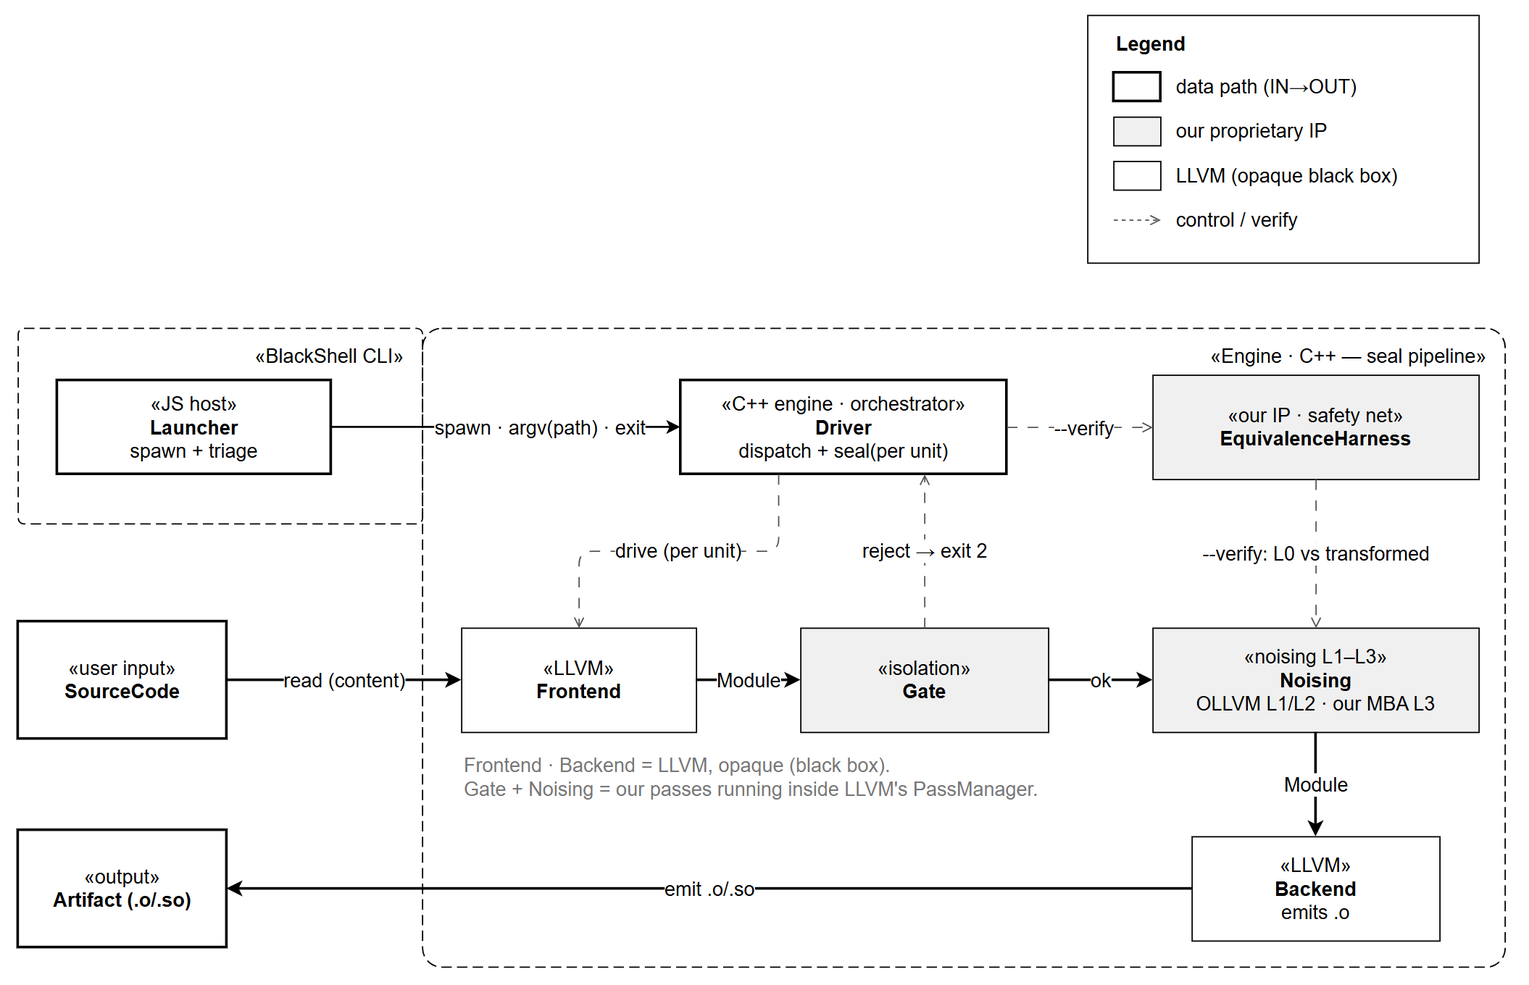
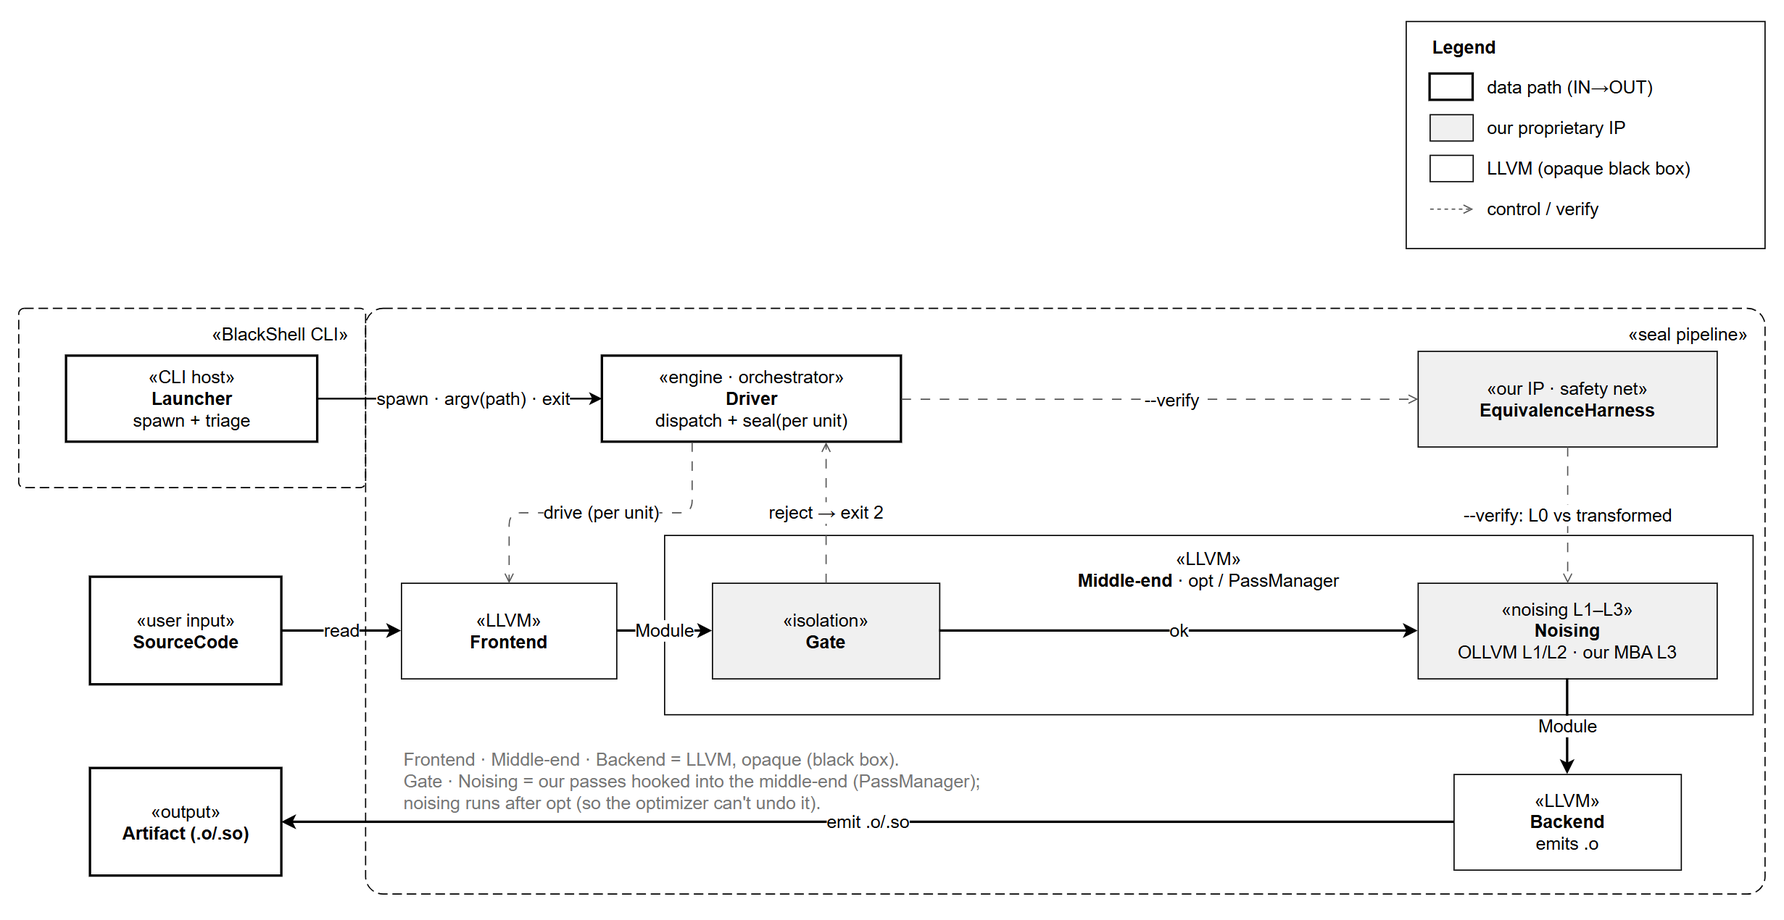
docs: refine production model to hybrid (RISC primitives + engine Driver)
§5/§6: replace the pure-RISC 'sequencing fully in the Launcher' framing with
the hybrid — the engine keeps orthogonal RISC primitives AND the Driver that
sequences the seal pipeline; the Launcher owns CLI parsing, command composition
and message rendering. Handle ABI applies at the CLI seam only (IR never
crosses). Design philosophy only — no finalized function names/signatures.

Diagram (figure 3): add the LLVM middle-end (opt/PassManager) black box with
Gate/Noising hooked into it (noising after opt); EquivalenceHarness stays
outside as compile+run verification, not a pass.

interfaces/01,02,04,README: forward-pointer caveats that command set / CLI
parsing / composition / message rendering move to the Launcher in production,
while pipeline sequencing stays in the engine Driver.

diff --git a/docs/Architecture.md b/docs/Architecture.md
@@ -1,6 +1,6 @@
 # BlackShell 아키텍처
 
-작성일: 2026-11-04
+작성일: 2026-11-04 · 개정: 2026-11-07 (§5·§6 프로덕션 모델 — 하이브리드: RISC primitive + 엔진 Driver)
 
 > 현재 **PoC 스켈레톤**의 실제 구현 구조를 기록한다. 장기 LLVM 파이프라인 설계는
 > [BlackShell_Plan.md §6](BlackShell_Plan.md)을, 이음매 계약은
@@ -119,6 +119,8 @@ flowchart TD
   응답하고 나머지는 엔진에 그대로 전달한다. 명령셋 파싱을 안 하므로 엔진이
   명령셋의 단일 소스이고, 이음매 프로토콜이 고정이라 PoC→프로덕션 교체 시 JS는
   무변경이다. (`interfaces/01-cli-seam.md`)
+  (⚠ 이건 현재 PoC 기준이다. 2026-11-07 재배치로 **프로덕션에선 명령셋·조합이 Launcher로
+  이동**해 JS가 오히려 두꺼워진다 → §5.)
 - **패스 계약** — `noising: IR→IR`, `gate: IR→Verdict` 두 시그니처. 현재는 전부
   더미다(identity noising = "맞지만 보호 안 됨", accept-all gate = **출하 전 반드시
   교체**). 더미↔실제 교체 시 드라이버는 안 건드리고 레지스트리 엔트리만 swap한다.
@@ -126,6 +128,8 @@ flowchart TD
 - **단일 I/O 지점** — 파이프라인 코드(`ir`/`interp`/`passes`)는 절대 print하지 않고
   `EngineError`를 raise만 한다. 렌더링은 `driver._emit` 한 곳, 메시지/스트림/exit
   코드는 `messages.py` 카탈로그에서 조회한다. (`interfaces/02-driver.md`)
+  (프로덕션에선 렌더가 Launcher로 가고, 엔진 primitive는 구조화된 verdict·에러코드만
+  반환한다 → §5.)
 - **구조적 격리 (§5 조건1)** — IR에 포인터·전역·I/O가 표현 불가능하므로 격리가
   문법 수준에서 강제된다. (`interfaces/03-ir-model.md`)
 - **등가 검증** — baseline(L0)과 변환 결과를 같은 입력으로 돌려 관측 출력(`returns`)만
@@ -150,28 +154,49 @@ exit 코드: `0` 정상 · `1` 오류 · `2` 게이트 거부(BlackShell_Plan §
 
 ---
 
-## 5. 프로덕션 언어 경계 (2026-11-04 확정)
+## 5. 프로덕션 언어 경계 (2026-11-07 — RISC 엔진 + 엔진 Driver, 하이브리드)
 
-PoC(Python)에서 LLVM 프로덕션으로 올릴 때 **언어 경계는 현재와 동일하게 유지한다** —
-얇은 JS 론처 + npm 패키징 / 엔진 전체는 한 언어(C++)로 LLVM과 같은 프로세스 안.
-서브프로세스 뒤의 바이너리를 Python → C++로 교체하는 것 외에 JS는 거의 바뀌지 않는다.
+> 아래는 **설계 철학**이다(구현 전이라 구체 primitive·함수·시그니처 이름은 확정하지 않는다).
+> 2026-11-04 "두꺼운 엔진"안의 근거는 이 절 끝 "설계 이력"에 보존한다.
 
-**검토 후 기각한 안**: "LLVM 호출부·IR 가공만 C++, 드라이버·스테이징 등 나머지는 JS."
+**핵심: RISC(직교 primitive)와 Driver의 존재는 충돌하지 않는다.** RISC가 요구하는 건 *명령(primitive)이
+직교적일 것*이지 *시퀀서가 어디 사는지*가 아니다. MIPS도 직교 명령셋 위에 그 명령을 순서대로 흘리는
+시퀀서가 있고 — Driver가 바로 그 자리다. 그래서 엔진은 **직교 primitive + 그걸 엮는 Driver**를 함께
+갖고, 그 위에서 Launcher는 **CLI·명령 조합**을 맡는다.
 
-- **경계 기준은 'IR 가공'이 아니라 'IR/LLVM을 만지느냐'다.** 게이트(§5 조건1 정적분석),
-  노이징 L1~L3, 등가 검증(baseline/변환을 실제 컴파일·실행해 비교) 모두 LLVM을
-  인프로세스로 써야 하므로 전부 C++이다. "IR 가공만"으로 좁히면 게이트가 애매하게 빠진다.
-- **드라이버를 JS로 당기면 이음매가 고와진다.** LLVM `Module`은 C++ 메모리에 산다.
-  JS가 패스 사이 중간 상태를 들고 있으려면 매 패스마다 bitcode 직렬화 왕복이 생겨,
-  파이프라인 한복판에 비싸고 깨지기 쉬운 경계가 박힌다. 이음매는 **유닛 단위로 거칠게**
-  유지한다 — 유닛을 통째로 넘기고(in) 봉인 아티팩트를 받는다(out), 횡단은 들어갈 때
-  1번·나올 때 1번.
-- **드라이버/스테이징은 어려운 부분이 아니다.** C++로 쓰는 비용 < JS↔C++ 오케스트레이션
-  비용이고, "엔진이 명령셋 단일 소스"(JS drift 방지) 불변식도 보존된다.
+**세 역할:**
+- **엔진 primitive (RISC).** 불러오기·게이트·노이징·검증·방출 류의 각 primitive는 한 가지 직교 동작만
+  하고 서로의 순서를 가정하지 않는다. IR/LLVM·파일 I/O는 전부 엔진 안.
+- **엔진 Driver (시퀀서).** 유닛별 봉인 파이프라인(고정 순서: 불러오기→게이트→노이징→검증→방출)을
+  엔진 안에서 구동한다 — primitive를 순서대로 호출하는 '프로그램'. IR은 이 파이프라인 내내 엔진
+  메모리에 머문다.
+- **Launcher (JS/TS).** CLI 파싱 + 어떤 명령·옵션·유닛·레벨인지 결정(명령 레벨 조합) + 사용자 메시지
+  렌더(UX). 엔진엔 "무엇을 봉인할지"(경로·레벨·플래그 = plan)를 넘기고 결과(판정·아티팩트·에러)를 받는다.
 
-**JS를 더 쓰고 싶을 때의 유일한 변형**: 명령 *의미*는 엔진에 두되, 출력 포매팅·help·UX만
-JS가 `messages` 카탈로그를 소비해 담당한다(`interfaces/01-cli-seam.md`의 "future JS-side
-CLI" 메모). 경계를 거칠게 유지하면서 JS 편의를 취하는 길.
+**경계 규율 (핸들 ABI는 CLI 경계에만).** Launcher↔엔진 경계로는 IR 값이 넘어가지 않는다 — plan(경로·
+레벨·플래그) in, 구조화된 결과(판정·아티팩트 경로·에러) out. 봉인 파이프라인이 통째로 엔진 안에서
+돌기 때문에 IR은 애초에 경계를 안 넘는다. (유닛을 CLI 호출 간에 참조해야 하면 IR이 아니라 불투명
+핸들로 — OS 파일 디스크립터 비유.) 전제는 in-process FFI(엔진 = Node에 로드되는 공유 라이브러리,
+선례 better-sqlite3·libLLVM 바인딩); 바인딩 방식은 구현 시 확정.
+
+**옛 모델 대비 달라지는 것.** 2026-11-04안은 Launcher를 "거의 forward만" 하는 얇은 껍데기로 봤다.
+하이브리드는 **명령셋·CLI 파싱·명령 조합·메시지 렌더를 Launcher로 올린다.** 반면 봉인 파이프라인
+시퀀싱과 IR/LLVM·파일 I/O는 엔진(Driver+primitive)에 그대로 둔다. 요지는 "실행·시퀀싱은 엔진,
+CLI·조합·UX는 Launcher" — **Driver 삭제가 아니라 역할 재분배.**
+
+**확장 계약 — CLI 옵션 추가.** 두 경로 — **(a)** 기존 엔진 능력의 재조합(다른 유닛·레벨·플래그·명령
+구성)이면 → Launcher만 수정. **(b)** 파이프라인에 없던 새 동작이 필요하면 → 엔진에 primitive 추가
+(드물어야 정상). 성립 전제 = primitive가 **직교적**일 것(숨은 순서 의존 금지, 하나가 두 동작 묶지
+말 것). 그래야 엔진 Driver가 자유롭게 재배선하고 Launcher가 명령 레벨에서 조합할 수 있다. ⚠ 깨지는
+지점은 primitive가 순서·명령을 암묵 가정할 때다 — 그 순간 (a)가 (b)로 새어 옵션 하나에 엔진까지
+건드리게 된다.
+
+### 설계 이력 (2026-11-04 → 11-07)
+
+> **2026-11-04 (두꺼운 엔진):** 얇은 JS 론처 + 엔진 전체 C++ 인프로세스, 드라이버·스테이징·명령셋
+> 전부 엔진 소유. **2026-11-07 (하이브리드):** 엔진은 RISC primitive + Driver 시퀀서를 유지하되,
+> 명령셋·CLI 파싱·명령 조합·메시지 렌더를 Launcher로 올림. Driver 삭제가 아니라 역할 재분배다.
+> 상세 diff는 git 이력 949b11e를 참조.
 
 ---
 
@@ -179,52 +204,68 @@ CLI" 메모). 경계를 거칠게 유지하면서 JS 편의를 취하는 길.
 
 위 §1~4가 현재 **PoC 스켈레톤**이라면, 이 절은 LLVM 프로덕션 **목표 구조**다
 ([BlackShell_Plan.md §6](BlackShell_Plan.md), 모델 P · C-ABI 이음매). LLVM
-프론트엔드·미들엔드·백엔드는 **블랙박스 파사드**로 두고, 우리 IP와 PoC에서 넘어오는
-계약(패스 계약 · 드라이버 단일 I/O · 메시지 카탈로그)만 명시한다.
+프론트엔드·미들엔드·백엔드는 **블랙박스 파사드**로 두고, 우리 IP와 계약(패스 계약 · 경계 규율 ·
+엔진(Driver+primitive) ↔ Launcher 역할 분담)만 명시한다.
 
 ![BlackShell 프로덕션 아키텍처](image/Architecture.png)
 
-**그림 3. 프로덕션 아키텍처 (정본).** 두 경계 — `«BlackShell CLI»`(JS 론처) 와
+**그림 3. 프로덕션 아키텍처 (정본).** 두 경계 — `«BlackShell CLI»`(JS Launcher) 와
 `«Engine · C++ — seal pipeline»`(C++ 엔진). 데이터패스 `SourceCode(IN) → Frontend → Gate →
-Noising → Backend → Artifact(.o/.so, OUT)`. 해칭 = LLVM 블랙박스(Frontend·Backend), 회색 =
-우리 IP(Gate·Noising·EquivalenceHarness), 점선 = 제어/검증. Backend가 `.o`를 직접 emit하고,
-`Artifact`가 우리 결과물의 종점이다(UserCompiler·최종 바이너리는 범위 밖). 편집 가능한
-원본: `BlackShell.drawio`.
+Noising → Backend → Artifact(.o/.so, OUT)`, 엔진 내부 `Driver`가 유닛별로 이 파이프라인을 구동.
+`Gate·Noising`은 **LLVM 미들엔드(opt·PassManager)에 훅으로 걸린 우리 패스**다(노이징은 opt 뒤).
+해칭 = LLVM 블랙박스(Frontend·Middle-end·Backend), 회색 = 우리 IP(Gate·Noising·EquivalenceHarness),
+점선 = 제어/검증. Backend가 `.o`를 직접 emit하고, `Artifact`가 우리 결과물의 종점이다(UserCompiler·최종
+바이너리는 범위 밖). 편집 가능한 원본: `BlackShell.drawio`(리포 미커밋). (하이브리드에서 `Launcher`는
+CLI 파싱·명령 조합·메시지 렌더를 맡는다 — §5.)
 
-**교체점(계약).** 그림의 회색 박스 = 우리 IP. 계약 2개가 교체점이다 — `Gate`(IR→Verdict,
-§5 조건1)와 `Noising`(IR→IR). PoC의 더미(accept-all 게이트 · identity 노이징)를 실제 구현으로
-갈아끼우는 자리이며, 노이징은 L1·L2를 OLLVM 포크로, L3를 우리 carry-sensitive MBA로 채운다.
+**교체점(계약).** 그림의 회색 박스 = 우리 IP. 교체점은 둘 — **게이트**(판정만, §5 조건1)와
+**노이징**(의미 보존 변환). PoC의 더미(accept-all 게이트 · 항등 노이징)를 실제 구현으로 갈아끼우는
+자리이며, 노이징은 L1·L2를 OLLVM 포크로, L3를 우리 carry-sensitive MBA로 채운다.
 
-### PoC → 프로덕션 매핑
+### PoC → 프로덕션 매핑 (역할 기준 — 구체 이름은 구현 시 확정)
 
-| PoC (Python) | 프로덕션 (C++) | 성격 |
+| PoC 역할 | 프로덕션 | 성격 |
 | --- | --- | --- |
-| `driver._emit` / `messages` | `Driver`(엔진 내부: dispatch + seal) | 단일 I/O 지점·카탈로그 유지 |
-| `passes.dummy_gate` (IR→Verdict) | `Gate` (§5 조건1) | **우리 IP** — accept-all 교체 |
-| `passes._identity` (IR→IR) | `Noising` (OLLVM L1/L2 + 우리 MBA L3) | **L3는 우리 IP** |
-| `harness.verify` (인터프리터) | `EquivalenceHarness` (컴파일·네이티브 실행) | **우리 IP** — 안전망 |
-| `ir.load_ir` (토이 JSON) | `Frontend.compile` (블랙박스) | LLVM 소유 |
-| `interp.run` (토이 백엔드) | `Backend.codegen` → **`.o` 직접 emit** | LLVM 소유 |
-| `_write_artifact` (JSON) | `Artifact(.o/.so)` 종점 (Backend가 씀) | 값 경계; 별도 writer 없음 |
+| 명령셋·CLI 파싱·명령 조합·메시지 렌더 | **Launcher** (JS/TS) | **옮겨짐** — CLI·조합·UX는 Launcher |
+| 봉인 파이프라인 시퀀싱 (드라이버) | 엔진 **Driver** | **엔진 유지** — 유닛별 봉인 순서 구동 |
+| IR 로딩 (토이 JSON) | 프론트엔드가 소스→IR (블랙박스) | LLVM 소유 |
+| 더미 게이트 (판정만) | 격리 게이트 (§5 조건1) | **우리 IP** — accept-all 교체 |
+| 항등 노이징 | 노이징 (OLLVM L1/L2 + 우리 MBA L3) | **L3는 우리 IP** |
+| 등가 검증 (인터프리터) | 등가 하네스 (컴파일·네이티브 실행) | **우리 IP** — 안전망 |
+| 토이 백엔드 | 백엔드가 아티팩트 직접 emit | LLVM 소유 |
+| 아티팩트 쓰기 | 아티팩트 종점 (백엔드가 씀) | 값 경계; 별도 writer 없음 |
 
 ### 설계 노트
 
-- **파일 I/O는 전부 C++ 엔진 소유** (규칙). JS Launcher는 파일을 **열지 않는다** — argv의
-  경로를 불투명 문자열로 받아 그대로 넘길 뿐이다. 소스 읽기(`Frontend`), 스테이징, 아티팩트
-  쓰기(`Backend`)까지 모든 파일 접근은 엔진 안에서 일어난다. 이점: ① 경로 해석·존재 검사·
-  에러가 한 언어(C++)에 모여 drift·중복 I/O 없음, ② JS는 바이너리를 교체해도 무변경인 얇은
-  론처로 유지, ③ 소스 '내용'이 JS를 거치지 않아 값 경계가 깨끗함. (PoC도 이미 이러함 —
-  `bin/blackshell.js`는 IR 파일을 안 읽고 forward만.)
-- **데이터패스 (IN→OUT)**: `SourceCode`(소스 내용)가 입력이다. 경로는 argv로 `Launcher →
-  Driver`로 흐르고, `Driver`가 유닛 봉인을 구동하면 `Frontend`가 그 경로의 소스를 읽어
-  `Module`을 만든다 → `Gate`(통과/거부) → `Noising` → `Backend`가 `.o` emit → `Artifact`.
-  경계를 넘나드는 건 경로 문자열과 최종 아티팩트뿐이다.
-- **두 경계**: ① `«BlackShell CLI»`(JS 론처) ↔ `«Engine · C++»`(엔진) = 서브프로세스 이음매
-  (argv/stdio/exit). ② 엔진 ↔ 사용자 = **C-ABI 아티팩트**(`.o/.so`, call-by-value 값 경계,
-  §5 조건1과 같은 지점). `UserCompiler`·최종 바이너리는 **우리 범위 밖**이라 그림에서 뺐다.
-- **우리 패스는 LLVM PassManager 안에서 돈다.** `Gate`·`Noising`은 우리 코드지만 LLVM
-  최적화기 파이프라인에 등록돼 실행된다(OLLVM이 선례). 그래서 그림에선 LLVM(`Frontend`·
-  `Backend`)만 블랙박스로 두고 PassManager는 주석으로 처리한다.
-- **아티팩트는 `Backend`가 쓴다.** `.o` 바이트 생성·기록은 LLVM `Backend`(llc)의 일이라,
-  별도 `ArtifactWriter`는 두지 않는다 — 중복이라 접었다. (`.o→.so` 패키징·출력 경로 정책만
-  필요하면 `Driver`가 담당.) 종점은 `Artifact(.o/.so)`.
+- **엔진 = RISC primitive + Driver, Launcher = CLI·조합 (§5).** 엔진은 직교 primitive(서로 순서 모름)를
+  노출하고, 엔진 **Driver**가 유닛별 봉인 파이프라인을 그 primitive들로 구동한다. Launcher는 CLI 파싱·
+  명령 조합·메시지 렌더를 맡고, 엔진엔 plan(경로·레벨·플래그)을 넘긴다.
+- **경계 규율 (핸들 ABI는 CLI 경계에만).** 봉인 파이프라인이 통째로 엔진 안에서 돌기 때문에 IR은
+  경계를 넘지 않는다 — Launcher↔엔진엔 plan in / 판정·아티팩트 경로·에러 out. (CLI 호출 간 유닛 참조가
+  필요하면 IR이 아니라 불투명 핸들로.)
+- **파일 I/O는 전부 엔진 소유** (규칙). Launcher는 파일을 **열지 않는다** — argv의 경로를 불투명
+  문자열로 받아 넘길 뿐이다. 소스 읽기(프론트엔드)·아티팩트 쓰기(백엔드)까지 모든 파일 접근은 엔진
+  안에서 일어난다. 이점: ① 경로 해석·검사·에러가 한 언어에 모여 drift·중복 없음, ② Launcher는
+  바이너리 교체에 무변경, ③ 소스 '내용'이 Launcher를 안 거쳐 값 경계가 깨끗. (PoC도 이미 이러함.)
+- **데이터패스 (IN→OUT)**: 소스가 입력이다. 경로가 argv로 Launcher에 들어오면 Launcher가 plan을 엔진에
+  넘기고, 엔진 **Driver**가 유닛별로 불러오기 → 게이트 → 노이징(레벨별) → 검증 → 방출 순으로 primitive를
+  구동한다. 프론트엔드가 경로의 소스를 읽어 IR을 만들고, 백엔드가 아티팩트를 emit한다. 경계를 넘는 건
+  plan·판정·아티팩트뿐이다(IR은 엔진 안에 머묾).
+- **두 경계**: ① Launcher ↔ 엔진 = **in-process FFI**(엔진 = Node에 로드되는 공유 라이브러리; PoC는
+  아직 서브프로세스 → 열린 결정). ② 엔진 ↔ 사용자 = **C-ABI 아티팩트**(값 경계, §5 조건1과 같은 지점).
+  사용자 컴파일러·최종 바이너리는 범위 밖.
+- **우리 패스는 LLVM 미들엔드 안에서 돈다.** 미들엔드(opt·PassManager)가 최적화를 돌리고, 게이트·노이징은
+  거기에 **훅으로 걸린 우리 패스**다(OLLVM 선례; 노이징은 opt 뒤라 최적화기가 되돌리지 못함). 그래서
+  그림3은 미들엔드를 LLVM 블랙박스(해칭)로 두고 그 안에 게이트·노이징(회색)을 얹는다 — 프론트엔드·
+  백엔드도 같은 LLVM 블랙박스. 단 등가 하네스는 패스가 아니라 컴파일·실행 검증이라 미들엔드 밖이다.
+- **아티팩트는 백엔드가 쓴다.** 아티팩트 생성·기록은 LLVM 백엔드의 일이라 별도 writer는 두지 않는다.
+  (패키징·출력 경로 정책이 필요하면 Launcher가 정하고, 쓰기 자체는 엔진이 수행.) 종점은 아티팩트다.
+
+### 열린 결정 (2026-11-07)
+
+1. **영속 엔진 여부.** 봉인 파이프라인은 엔진 내부(Driver)라 IR은 경계를 안 넘지만, CLI 호출 간
+   상태(스테이징)를 엔진이 들고 있으려면 영속이어야 한다. (i) 영속 엔진 + stdio RPC(유닛 참조 = 핸들)
+   vs (ii) 1회성(핸들-ABI는 프로덕션 N-API에서 처음 도입). PoC는 현재 Node→Python 서브프로세스. 미정.
+
+> **해소됨 (2026-11-07):** 미들엔드 명명 — 그림3에 LLVM 미들엔드(opt·PassManager) 블랙박스를
+> 추가하고 게이트·노이징을 그 안에 훅으로 배치. 미들엔드 = LLVM 최적화기, 우리는 거기 개입하는 패스.

diff --git a/docs/interfaces/README.md b/docs/interfaces/README.md
@@ -1,5 +1,11 @@
 # 계층 인터페이스 (Layer Interfaces)
 
+> ⚠ **PoC 기준 문서.** 아래 계약은 현재 PoC 스켈레톤을 못 박은 것이다. 2026-11-07 하이브리드 재배치
+> (`../Architecture.md` §5)로 **명령셋·CLI 파싱·명령 조합·메시지 렌더가 프로덕션에서 엔진 → Launcher로
+> 이동**한다(01·02·04 영향). 단 **봉인 파이프라인 시퀀싱은 엔진 Driver가 유지**(03·05 및 시퀀싱은
+> 엔진 내부라 무관). 따라서 아래 "공통 규약: 계약이 PoC→프로덕션 그대로 넘어간다"는 그 이동 항목들엔
+> 더는 성립하지 않는다. 구체 재작성은 구현 시(아직 확정 안 함).
+
 Black-Shell 워킹 스켈레톤의 **계층별 계약**을 못 박는 문서 모음이다. 코드보다 먼저 이 계약을 고정하는 이유는 [`BlackShell_Plan.md`](../BlackShell_Plan.md) §9의 관리 전략 때문이다 — 끝-끝 파이프라인을 더미(항등) 패스로 먼저 뚫고, 더미를 실제 패스로 **무중단 교체**하려면 더미와 실제가 **같은 계약**을 지켜야 한다.
 
 ## 레이어 지도

diff --git a/docs/interfaces/02-driver.md b/docs/interfaces/02-driver.md
@@ -2,6 +2,12 @@
 
 > 고정하는 계약: 내부 엔진의 진입점. 명령 문법, 레벨 on/off 토글, 파이프라인 실행 순서. — §9 척추 ② '드라이버+토글'.
 
+> ⚠ **이 문서는 현재 PoC 기준이다.** 2026-11-07 하이브리드 재배치(`../Architecture.md` §5)로
+> **명령 문법·레벨 선택(토글)·메시지 렌더는 프로덕션에서 Launcher(JS/TS)로 이동**한다. 다만
+> **봉인 파이프라인 시퀀싱은 엔진 `Driver`가 그대로 소유**한다(엔진 = Driver 시퀀서 + 직교 primitive).
+> 즉 README "공통 규약: 계약이 그대로 넘어간다"가 명령셋·토글·렌더 부분엔 더는 성립하지 않는다.
+> 구체 재작성은 구현 시(아직 확정 안 함).
+
 드라이버는 argv(문서 01에서 받은)를 파싱해 **파이프라인을 조립·실행**한다. 명령 계약의 단일 진실 원천.
 
 ## 명령 문법

diff --git a/docs/interfaces/01-cli-seam.md b/docs/interfaces/01-cli-seam.md
@@ -2,6 +2,10 @@
 
 > 고정하는 계약: JS 껍데기가 내부 엔진에 명령을 넘기는 경계. argv 전달 방식, 표준 스트림, exit code.
 
+> ⚠ **PoC 기준.** 여기서 "JS는 명령 목록을 모르고 그대로 forward / 명령 단일 진실 원천은 엔진"은
+> 현재 PoC 모델이다. 2026-11-07 RISC 재배치(`../Architecture.md` §5)로 **프로덕션에선 명령셋 파싱·조합·
+> 메시지 렌더가 Launcher로 이동**(JS가 두꺼워짐), 경계도 서브프로세스 → in-process FFI. 구현 시 확정.
+
 ## 원칙
 
 "**외부는 JS, 실행은 내부.**" JS는 명령을 **최초 수신**하되 **해석·수행하지 않는다.** 메타 질의(패키지가 소유한 값)만 즉답하고, 나머지는 **argv를 그대로** 내부 엔진에 넘긴다. 뭘 할지 정하고 수행하는 건 전부 내부.

diff --git a/docs/interfaces/04-pass-contract.md b/docs/interfaces/04-pass-contract.md
@@ -41,6 +41,10 @@ check(module: IR) -> Verdict
 
 ## 레지스트리 + 토글
 
+> ⚠ 패스 **시그니처**(IR→IR / IR→Verdict)는 엔진 내부라 유지되지만, 아래 "드라이버가 --level로
+> 선택"은 PoC 기준이다. 2026-11-07 RISC 재배치(`../Architecture.md` §5)로 **레벨 선택·토글은 프로덕션
+> 에서 Launcher가 소유**한다(엔진은 선택된 노이징 primitive를 실행할 뿐). 구현 시 확정.
+
 - 모든 패스는 `(이름, 종류, 레벨)`로 **레지스트리에 등록**된다.
 - 드라이버가 `--level`로 노이징 패스를 뽑고, 게이트는 항상 노이징 앞에 선다.
 - 더미→실제 교체 = **레지스트리에서 같은 이름/레벨의 구현을 바꿔 끼우는 것.** 호출부(드라이버)·계약은 안 바뀐다.
